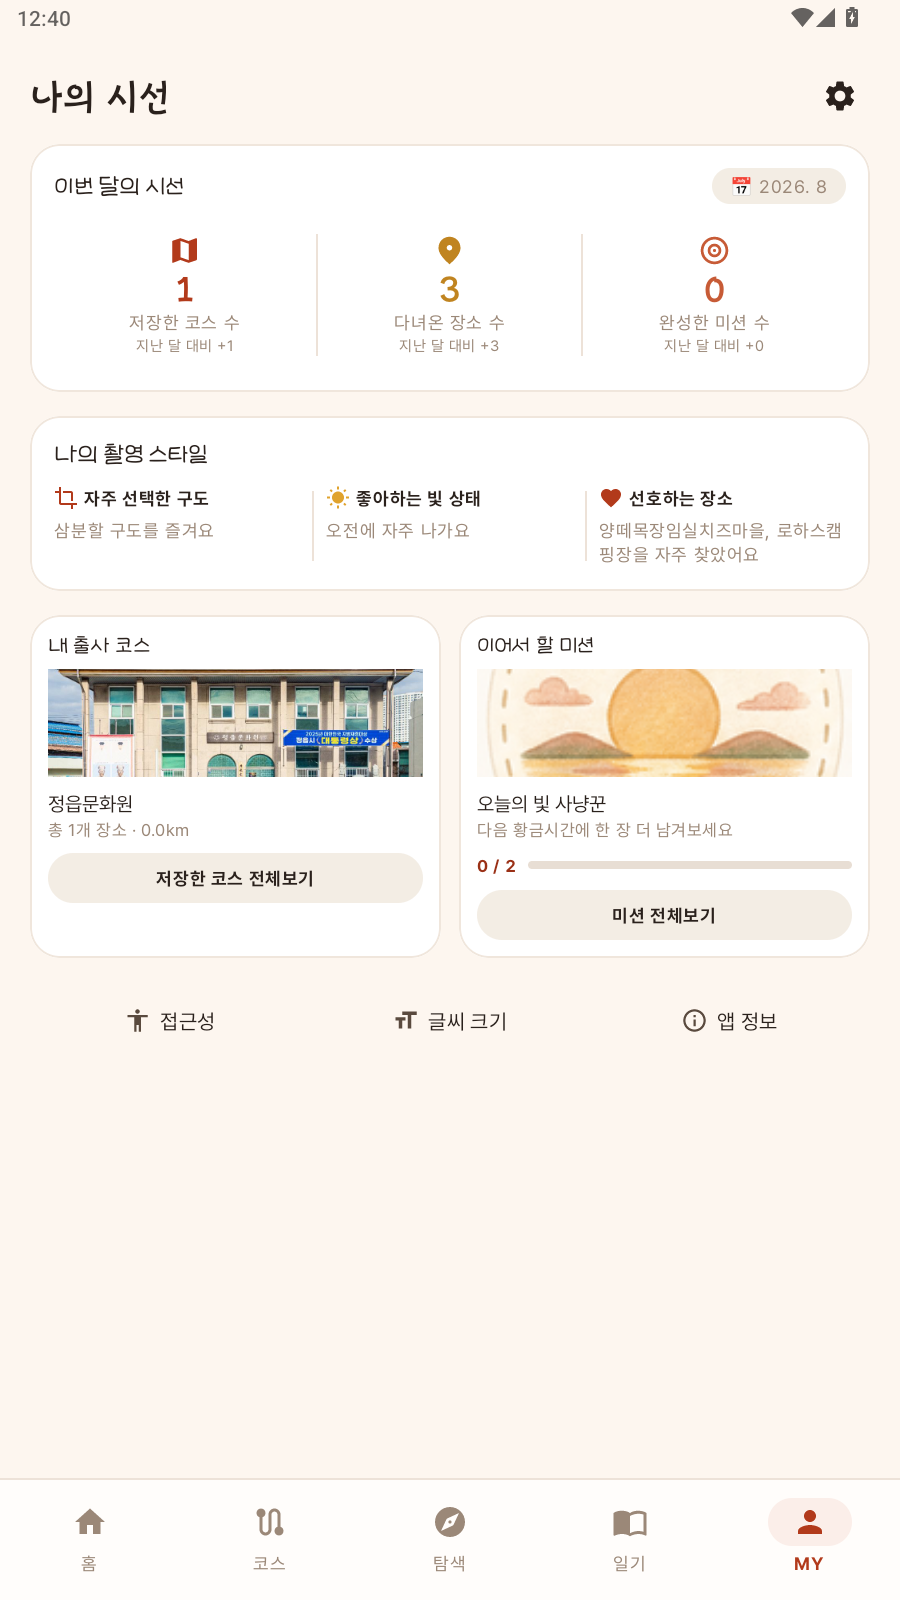
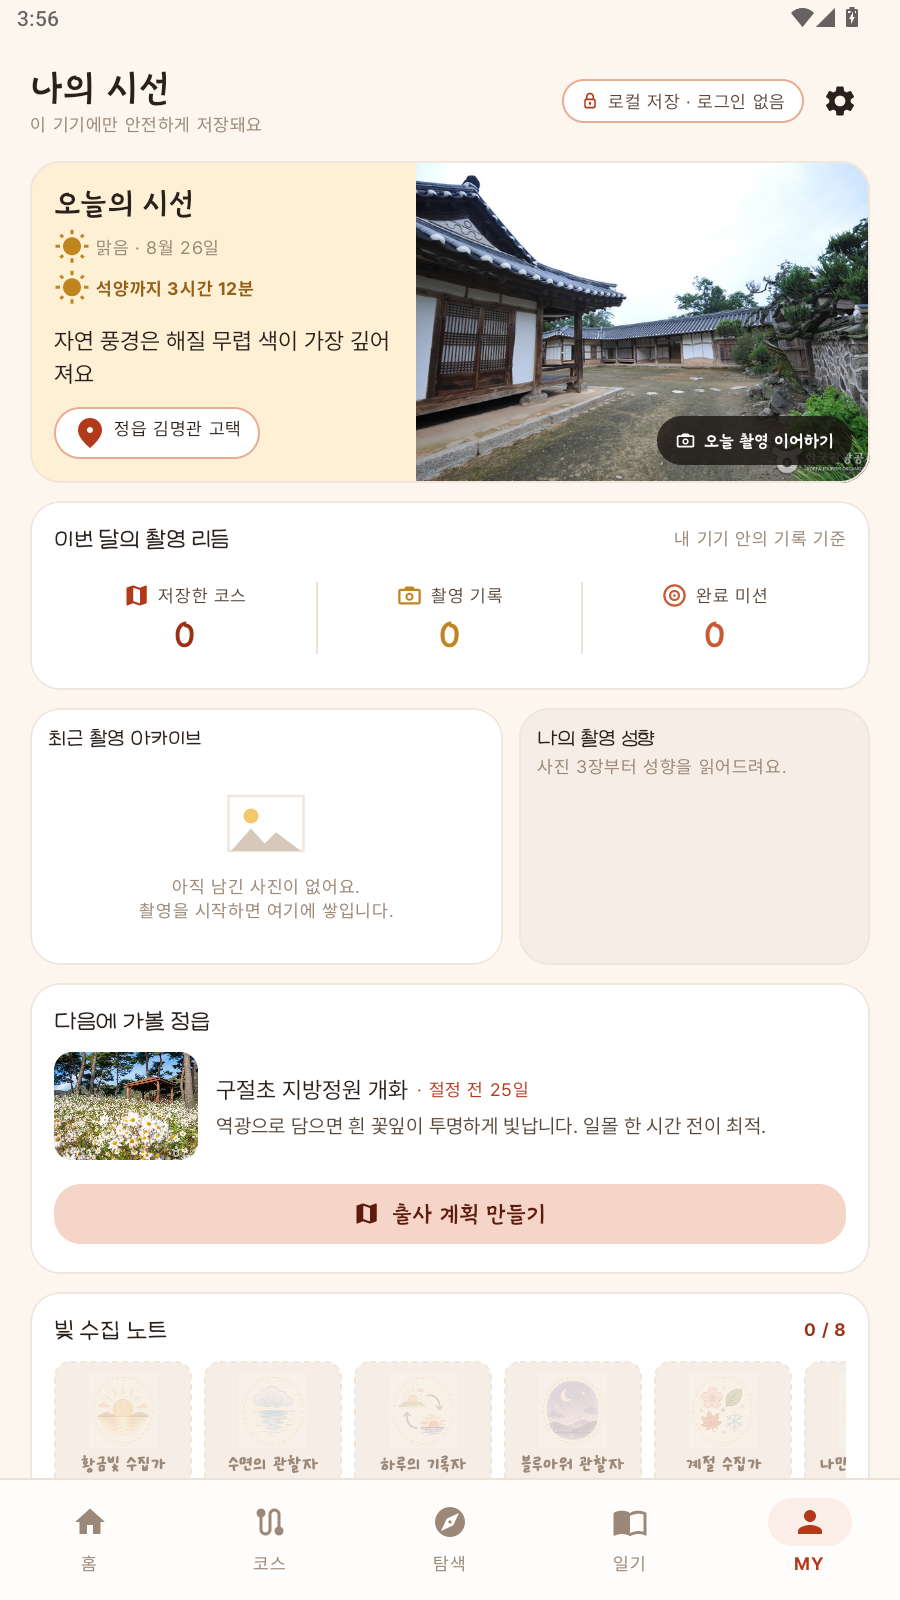
docs(readme): MY 탭 개편 내용과 무무 캡처 반영
- 27-my.png 를 새 화면으로 교체하고 30-my-note.png(성향·빛 수집 노트) 추가
- 오늘의 시선 / 촬영 리듬 / 아카이브 / 촬영 성향 / 다음에 가볼 정읍 /
  빛 수집 노트 / 내보내기·초기화 순서로 다시 씀
- 촬영 성향이 "찍은 자리와 시각으로만" 센다는 점과, 사진 3장 미만이면
  아예 말하지 않는다는 기준을 명시

diff --git a/README.md b/README.md
@@ -530,22 +530,38 @@
 
 ### 12. MY — 나의 시선
 
-<img src="docs/screenshots/27-my.png" width="260" align="right" alt="MY - 나의 시선" />
+<p>
+  <img src="docs/screenshots/27-my.png" width="240" alt="MY - 나의 시선" />
+  <img src="docs/screenshots/30-my-note.png" width="240" alt="MY - 촬영 성향과 빛 수집 노트" />
+</p>
 
 로그인이 없으므로 프로필(아바타 · 레벨 · 가입일)을 두지 않았습니다.
-계정이 아니라 **기록이 곧 프로필**입니다.
+계정이 아니라 **기록이 곧 프로필**입니다. 머리에 `🔒 로컬 저장 · 로그인 없음`
+배지를 달아 그 사실을 숨기지 않고 약속으로 내겁니다.
 
-- **이번 달의 시선** — 저장한 코스 · 다녀온 장소 · 완성한 미션을
-  지난 달 대비와 함께. 전부 로컬 방문 기록에서 계산합니다
-- **최근 촬영** — 사진 격자(장소 · 구도 태그). 누르면 포토 프레임으로
-  이어집니다
-- **나의 촬영 스타일** — 자주 선택한 구도 · 좋아하는 빛 상태 · 선호하는
-  장소. 스스로 적은 적 없는 프로필이 기록만으로 만들어집니다
-- 저장한 코스 · 이어서 할 미션 요약 카드와 전체보기,
-  접근성 · 글씨 크기 · 앱 정보 퀵링크 (고객센터는 두지 않습니다 —
-  응대 창구가 없는데 버튼만 있으면 거짓말이 됩니다)
+화면은 위에서 아래로 **시간축이 넓어지게** 놓았습니다 —
+지금 → 이번 달 → 다음 계절 → 모아 온 전부.
 
-<br clear="right" />
+- **오늘의 시선** — 지금 날씨 · `석양까지 3시간 12분` · 추천 촬영지와
+  그 장소의 촬영 한 줄. 빛 정보는 홈이 이미 받아 둔 값을 그대로 써서
+  두 화면의 숫자가 어긋나지 않습니다
+- **이번 달의 촬영 리듬** — 저장한 코스 · 촬영 기록 · 완료 미션.
+  `내 기기 안의 기록 기준`이라고 밝혀, 서버 통계로 오해되지 않게 합니다
+- **최근 촬영 아카이브** — 사진 격자에 `구도 · 빛` 태그. 누르면 포토
+  프레임으로 이어집니다. 사진이 없을 때는 남의 사진으로 채우지 않고
+  빈 액자 그림과 안내만 둡니다
+- **나의 촬영 성향** — 반영 · 석양 · 수변 세 축의 비율.
+  **찍은 자리와 시각으로만** 셉니다. 사진 화소를 읽어 "반사입니다"라고
+  말하지 않고, 사진이 3장 미만이면 아예 말하지 않습니다 —
+  한 장으로 68%는 통계가 아니라 장식입니다
+- **다음에 가볼 정읍** — 가장 가까운 절정과 D-day(`구절초 지방정원 개화 ·
+  절정 전 25일`), 그 시기 촬영 요령, 관광공사 실사진
+- **빛 수집 노트** — 미션 여덟 개를 우표처럼. 못 받은 칸도 흐리게 보여
+  줍니다. 무엇을 모을 수 있는지 알아야 모으고 싶어집니다
+- **사진 내보내기 · 데이터 초기화 · 접근성** — 셋 다 실제로 동작합니다.
+  내보내기는 공유 시트로 원본을 넘기고(사진을 한 벌 더 만들지 않습니다),
+  초기화는 기록만 지우고 **갤러리 사진과 글씨 크기 설정은 남깁니다**.
+  고객센터는 두지 않습니다 — 응대 창구가 없는데 버튼만 있으면 거짓말입니다
 
 ### 13. 온보딩 · 큰 글씨 모드 (시니어 접근성)
 
